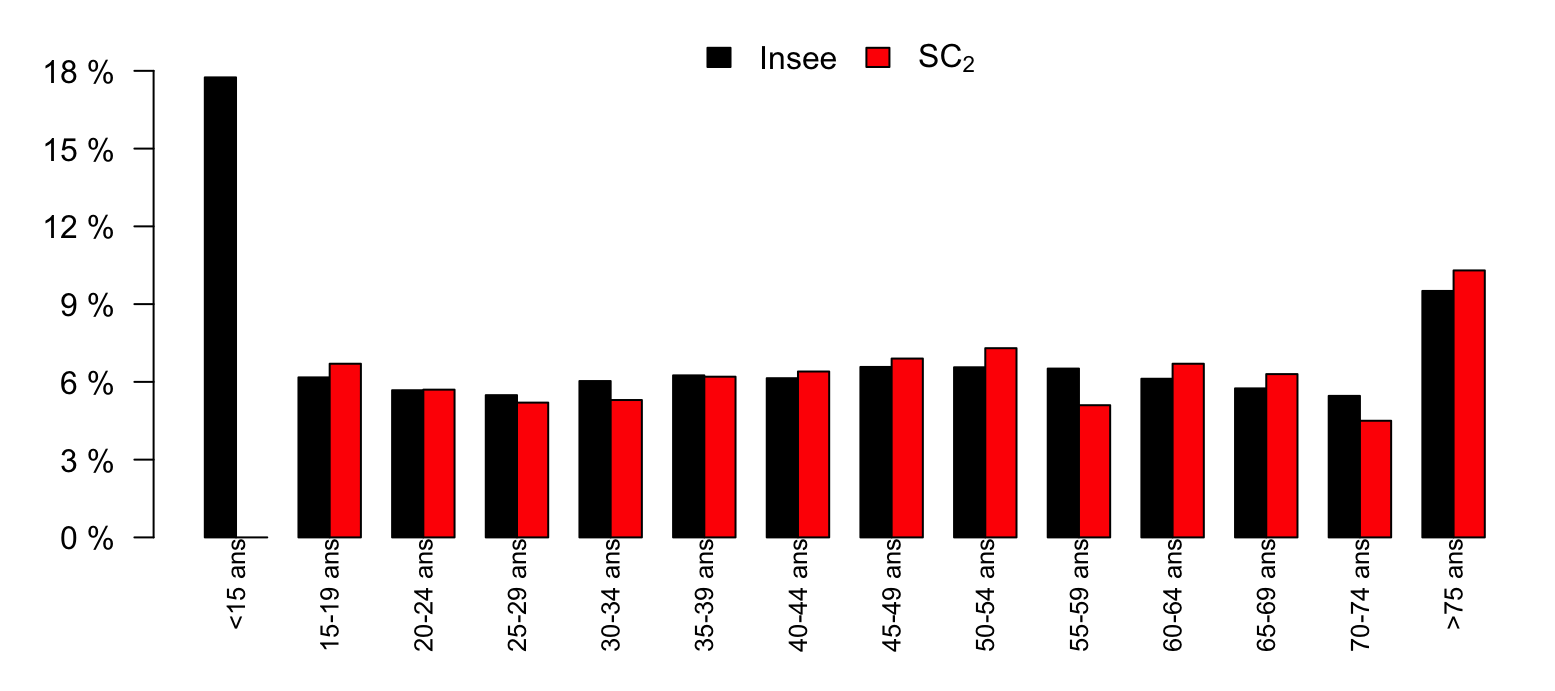
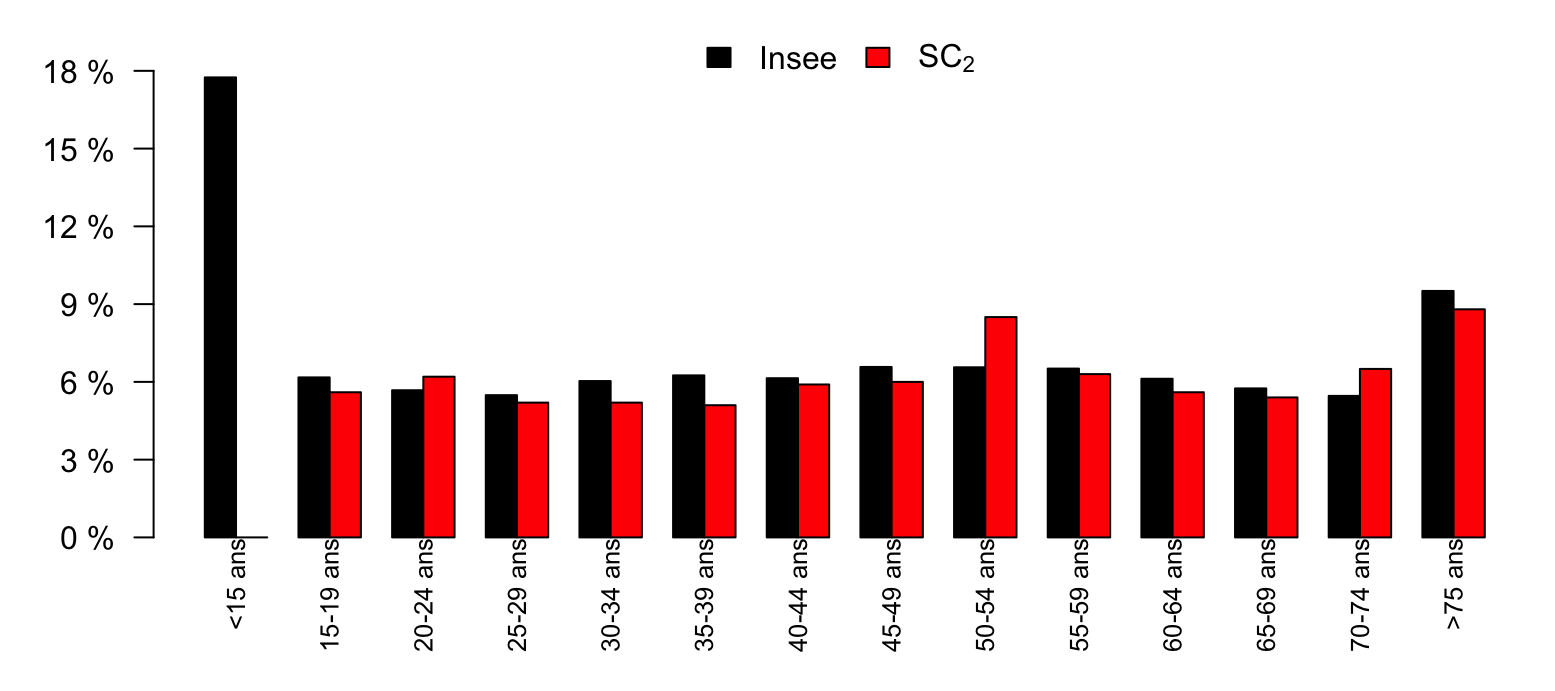
cours

diff --git a/static/uploads/M2_DS/M2_stats_de_la_SD_2024.html b/static/uploads/M2_DS/M2_stats_de_la_SD_2024.html
@@ -877,9 +877,9 @@ y = x + \epsilon
 <p>On répète un nombre <span class="math inline">\(M=\)</span> 20 d’imputations du jeu de données intitiales. En voici 3 versions.</p>
 
 <img data-src="M2_stats_de_la_SD_2024_files/figure-revealjs/unnamed-chunk-20-1.png" class="quarto-figure quarto-figure-center r-stretch" width="518"><p>La moyenne empirique des <span class="math inline">\(M=\)</span> 20 estimations pour chacun des 3 coefficients: <span class="math display">\[
-\hat{\alpha}_N\approx -0.022\pm 0.05, \
-\hat{\beta}_N\approx 0.758\pm 0.045,\
-\hat{\sigma}^2_N\approx 0.192
+\hat{\alpha}_N\approx 0.063\pm 0.042, \
+\hat{\beta}_N\approx 1.017\pm 0.043,\
+\hat{\sigma}^2_N\approx 0.135
 \]</span></p>
 </section>
 <section id="le-boxplot-toujours-aussi-utile" class="slide level2">
@@ -949,27 +949,27 @@ y = x + \epsilon
 <p>On obtient des estimations :</p>
 <ul>
 <li><p>Via bootstrap : <span class="math display">\[
-\hat{\alpha}_\text{Boot}\approx -0.044\pm 0.054, \
-\hat{\beta}_\text{Boot}\approx 0.787\pm 0.05, \
-\hat{\sigma}^2_\text{Boot}\approx 0.227
+\hat{\alpha}_\text{Boot}\approx 0.056\pm 0.047, \
+\hat{\beta}_\text{Boot}\approx 1.021\pm 0.047, \
+\hat{\sigma}^2_\text{Boot}\approx 0.17
 \]</span></p></li>
 <li><p>Via la postérieure/bayésienne : <span class="math display">\[
-\hat{\alpha}_\text{Bayes}\approx 0.001\pm 0.009, \
-\hat{\beta}_\text{Bayes}\approx 0.965\pm 0.012,\
-\hat{\sigma}^2_\text{Bayes}\approx 0.265
+\hat{\alpha}_\text{Bayes}\approx 0\pm 0.01, \
+\hat{\beta}_\text{Bayes}\approx 0.963\pm 0.013,\
+\hat{\sigma}^2_\text{Bayes}\approx 0.198
 \]</span></p></li>
 </ul>
 <p>Pour rappel, dans les cas impropres : <span class="math display">\[
 \begin{array}{lccc}
-\text{Moyenne}&amp;\hat{\alpha}_0\approx 0.055\pm 0.067 &amp;
-\hat{\beta}_0\approx 0.368\pm 0.06 &amp;
-\hat{\sigma}^2_0\approx 0.353\\
-\text{Régression linéaire}&amp;\hat{\alpha}_l\approx -0.023\pm 0.047 &amp;
-\hat{\beta}_l\approx 0.756\pm 0.042 &amp;
-\hat{\sigma}^2_l\approx 0.171\\
-\text{Régression stochastique}&amp;\hat{\alpha}_N\approx -0.022\pm 0.05 &amp;
-\hat{\beta}_N\approx 0.758\pm 0.045 &amp;
-\hat{\sigma}^2_N\approx 0.192
+\text{Moyenne}&amp;\hat{\alpha}_0\approx 0.171\pm 0.066 &amp;
+\hat{\beta}_0\approx 0.684\pm 0.068 &amp;
+\hat{\sigma}^2_0\approx 0.344\\
+\text{Régression linéaire}&amp;\hat{\alpha}_l\approx 0.064\pm 0.039 &amp;
+\hat{\beta}_l\approx 1.022\pm 0.041 &amp;
+\hat{\sigma}^2_l\approx 0.123\\
+\text{Régression stochastique}&amp;\hat{\alpha}_N\approx 0.063\pm 0.042 &amp;
+\hat{\beta}_N\approx 1.017\pm 0.043 &amp;
+\hat{\sigma}^2_N\approx 0.135
 \end{array}
 \]</span> </p>
 </section>
@@ -1020,7 +1020,7 @@ y = x + \epsilon
 <p>Soit une fonction de densité paramétrique <span class="math inline">\(p(x|\theta)\)</span> qui dépend du paramètre <span class="math inline">\(\theta\in\Theta\)</span>, <span class="math inline">\(\Theta\)</span> potentiellement multi-dimensionnel.</p>
 <p>Dans le cas d’un échantillon de <span class="math inline">\(n\)</span> observations indépendantes <span class="math inline">\(X=(x_1,\dots,x_n)\)</span> la vraisemblance s’écrit : <span class="math display">\[
 \mathcal{L}(\theta|X) = \prod_{i=1}^np(x_i|\theta).
-\]</span> Plus cette valeur est importante et plus le modèle <span class="math inline">\(\theta\)</span> est vraisemblable suivant les données <span class="math inline">\(X\)</span>. La contrainte de cette fonction est qu’elle doit sommer à 1.</p>
+\]</span> Plus cette valeur est importante et plus le modèle <span class="math inline">\(\theta\)</span> est vraisemblable suivant les données <span class="math inline">\(X\)</span>.</p>
 </section>
 <section id="maximization-de-vraisemblance-2" class="slide level2">
 <h2>Maximization de vraisemblance (2)</h2>
@@ -1072,7 +1072,7 @@ y = x + \epsilon
 </section>
 <section id="naissance-de-lalgorithme-em-1" class="slide level2">
 <h2>Naissance de l’algorithme <strong>EM</strong> (1)</h2>
-<p>Soit <span class="math inline">\(X\in\mathcal{X}\)</span> les données manquantes et <span class="math inline">\(Z\in\mathcal{Z}\)</span> les données présentes, alors la fonction de densité jointe de <span class="math inline">\((X,Z)\)</span> peut s’écrire <span class="math display">\[
+<p>Soit <span class="math inline">\(X\in\mathcal{X}\)</span> les données observées et <span class="math inline">\(Z\in\mathcal{Z}\)</span> les données manquantes, alors la fonction de densité jointe de <span class="math inline">\((X,Z)\)</span> peut s’écrire <span class="math display">\[
 p\left(X,Z|\theta\right)=p\left(X|Z,\theta\right)p\left(Z|\theta\right).
 \]</span> Ainsi, par intégration sur <span class="math inline">\(\mathcal{Z}\)</span> l’ensemble formé par les évènements possibles pour les données manquantes il vient <span class="math display">\[
 p\left(X|\theta\right) = \int_{z\in \mathcal{Z}}p\left(X,z|\theta\right)dz=\int_{z\in \mathcal{Z}} p\left(X|z,\theta\right)p\left(z|\theta\right)dz
@@ -1209,15 +1209,15 @@ Q\left(\theta|\theta_0,X\right) &amp;=&amp;  \mathbb{E}_{\theta_0}\left[\ln{p\le
 </div>
 </div>
 </section>
-<section id="un-petit-exemple-1" class="slide level2">
-<h2>Un petit exemple (1)</h2>
+<section id="capteur-de-température-saturé-1" class="slide level2">
+<h2>Capteur de température saturé (1)</h2>
 <p>On accède aux données d’un capteur de température qui sature à partir d’une température <span class="math inline">\(a\)</span>. On sait que la température suit une loi normale de moyenne <span class="math inline">\(\theta\)</span> et de variance <span class="math inline">\(1\)</span>. Parmi les <span class="math inline">\(n=n_1+n_2\)</span> données, les <span class="math inline">\(n_1\)</span> premières ne sont pas saturées (<span class="math inline">\(x_i&lt;a\)</span>) alors que les <span class="math inline">\(n_2\)</span> suivantes sont saturées (<span class="math inline">\(x_i\geq a\)</span>). On cherche tout de même à estimer <span class="math inline">\(\theta\)</span>, la vraie valeur de la température.</p>
 <p>Dans ce cas, la vraisemblance du problème s’écrit <span class="math display">\[
 \mathcal{L}(\theta|X) = \left(1-\Phi(a-\theta)\right)^{n_2}\prod_{i=1}^{n_1}\varphi(x_i-\theta),
 \]</span> où <span class="math inline">\(\varphi\)</span> et <span class="math inline">\(\Phi\)</span> sont les fonctions de densité et de répartition de la loi normale centrée réduite.</p>
 </section>
-<section id="un-petit-exemple-2" class="slide level2">
-<h2>Un petit exemple (2)</h2>
+<section id="capteur-de-température-saturé-2" class="slide level2">
+<h2>Capteur de température saturé (2)</h2>
 <p>On introduit des variables latentes <span class="math inline">\(z_i\)</span> et on écrit alors la vraisemblance complétée <span class="math display">\[
 \mathcal{L}_c(\theta|X,Z) = \prod_{i=1}^{n_1}\varphi(x_i-\theta)\prod_{i=1}^{n_2}\varphi(z_i-\theta),
 \]</span> qui est cette fois simple à régler puisque les <span class="math inline">\(z_i\)</span> sont observés.</p>
@@ -1225,8 +1225,8 @@ Q\left(\theta|\theta_0,X\right) &amp;=&amp;  \mathbb{E}_{\theta_0}\left[\ln{p\le
 </p>
 <p>C’est l’étape de maximization qui permet de trouver le paramètre <span class="math inline">\(\theta\)</span> optimal.</p>
 </section>
-<section id="un-petit-exemple-3" class="slide level2">
-<h2>Un petit exemple (3)</h2>
+<section id="capteur-de-température-saturé-3" class="slide level2">
+<h2>Capteur de température saturé (3)</h2>
 <p><br>
 </p>
 <p>On peut aisemment détailler la vraisemblance complétée <span class="math inline">\(\ell_c(\theta|X,Z)\)</span> :</p>
@@ -1240,8 +1240,8 @@ Q\left(\theta|\theta_0,X\right) &amp;=&amp;  \mathbb{E}_{\theta_0}\left[\ln{p\le
 Q(\theta|\theta_k,X) = \mathbb{E}_{\theta_k}\left[\ell_c(\theta|X,Z)\right] = -\frac{1}{2}\sum_{i=1}^{n_1} (x_i-\theta)^2 -\frac{1}{2} \sum_{i=1}^{n_2}\mathbb{E}_{\theta_k}[(Z_i-\theta)^2] + cste.
 \]</span></p>
 </section>
-<section id="un-petit-exemple-4" class="slide level2">
-<h2>Un petit exemple (4)</h2>
+<section id="capteur-de-température-saturé-4" class="slide level2">
+<h2>Capteur de température saturé (4)</h2>
 <p><br>
 </p>
 <p>La fonctionelle <span class="math inline">\(Q(\theta|\theta_k,X)\)</span> est alors maximale en <span class="math display">\[
@@ -1253,33 +1253,82 @@ Q(\theta|\theta_k,X) = \mathbb{E}_{\theta_k}\left[\ell_c(\theta|X,Z)\right] = -\
 &lt;\!\!z_i\!\!&gt;_k=\mathbb{E}_{\theta_k}[Z_i]=\dfrac{\int_{a}^{\infty}z\varphi(z-\theta_k)dz}{1-\Phi(a-\theta_k)} = \theta_k + \dfrac{\varphi(a-\theta_k)}{1-\Phi(a-\theta_k)}.
 \]</span></p>
 </section>
-<section id="un-petit-exemple-5" class="slide level2">
-<h2>Un petit exemple (5)</h2>
-<p><br>
-</p>
+<section id="capteur-de-température-saturé-5" class="slide level2">
+<h2>Capteur de température saturé (5)</h2>
 <p>L’algorithme <strong>EM</strong> recherché réalise donc les deux étapes suivantes, après initialisation de <span class="math inline">\(\theta\)</span> via <span class="math inline">\(\theta_0\)</span>, et pour toute itération <span class="math inline">\(k&gt;0\)</span> :</p>
 <ul>
 <li><strong>Espérance</strong> : Calcul de <span class="math inline">\(Q(\theta|\theta_k,X)\)</span>, celà revient ici à calculer:</li>
 </ul>
 <p><span class="math display">\[\forall i\in\{1,\dots,n_2\},\quad &lt;\!\!z_i\!\!&gt;_k = \theta_k + \dfrac{\varphi(a-\theta_k)}{1-\Phi(a-\theta_k)}=&lt;\!\!z_1\!\!&gt;_k.\]</span></p>
-<p><br>
-</p>
 <ul>
 <li><strong>Maximisation</strong> : on calcule <span class="math inline">\(\theta_{k+1} = \dfrac{\sum_{i=1}^{n_1}x_i+n_2&lt;\!\!z_1\!\!&gt;_k}{n}\)</span>.</li>
 </ul>
+<div class="callout callout-note callout-titled callout-style-default">
+<div class="callout-body">
+<div class="callout-title">
+<div class="callout-icon-container">
+<i class="callout-icon"></i>
+</div>
+<p><strong>Note</strong></p>
+</div>
+<div class="callout-content">
+<p>L’espérance conditionelle <span class="math inline">\(\mathbb{E}_{\theta_k}[Z_i]\)</span> est indépendante de l’individu considéré on arrive à la conclusion que l’hypothèse <strong>MNAR</strong>, non discutée précédemment, est bien vérifiée.</p>
+</div>
+</div>
+</div>
 </section>
-<section id="un-petit-exemple-6" class="slide level2">
-<h2>Un petit exemple (6)</h2>
-<p>Application numérique avec <span class="math inline">\(\theta=30\)</span>, <span class="math inline">\(n_1=400\)</span>, <span class="math inline">\(n_2=250\)</span> et <span class="math inline">\(a=30.27\)</span> :</p>
+<section id="capteur-de-température-saturé-6" class="slide level2">
+<h2>Capteur de température saturé (6)</h2>
+<div class="callout callout-note callout-titled callout-style-default">
+<div class="callout-body">
+<div class="callout-title">
+<div class="callout-icon-container">
+<i class="callout-icon"></i>
+</div>
+<p><strong>Qui de l’imputation ?</strong></p>
+</div>
+<div class="callout-content">
+<p>Dans cet exemple, l’estimateur du maximum de vraissemblance, noté <span class="math inline">\(\hat{\theta}_{ML}\)</span>, est la limite de la suite</p>
+<p><span class="math display">\[
+\hat{\theta}_{ML} = \lim_{k\ \to \ \infty}\dfrac{\sum_{i=1}^{n_1}x_i+n_2&lt;\!\!z_1\!\!&gt;_k}{n}.
+\]</span> Sous le modèle choisi, tel que <span class="math inline">\(\theta=\hat{\theta}_{ML}\)</span>, la <strong>meilleure</strong> valeur imputée pour chaque <span class="math inline">\(z_i\)</span> (comprendre <strong>la plus vraisemblable</strong>) est</p>
+<p><span class="math display">\[\forall i\in\{1,\dots,n_2\},\quad &lt;\!\!z_i\!\!&gt;_{ML} = \hat{\theta}_{ML} + \dfrac{\varphi(a-\hat{\theta}_{ML})}{1-\Phi(a-\hat{\theta}_{ML})}.\]</span></p>
+</div>
+</div>
+</div>
+</section>
+<section id="capteur-de-température-saturé-7" class="slide level2">
+<h2>Capteur de température saturé (7)</h2>
+<p>Application numérique avec <span class="math inline">\(\theta=30\)</span>, <span class="math inline">\(n_1=400\)</span>, <span class="math inline">\(n_2=250\)</span> et <span class="math inline">\(a=30.33\)</span> :</p>
 
 <img data-src="M2_stats_de_la_SD_2024_files/figure-revealjs/unnamed-chunk-27-1.png" class="quarto-figure quarto-figure-center r-stretch" width="544"></section>
+<section id="capteur-de-température-saturé-8" class="slide level2">
+<h2>Capteur de température saturé (8)</h2>
+<div class="callout callout-important callout-titled callout-style-default">
+<div class="callout-body">
+<div class="callout-title">
+<div class="callout-icon-container">
+<i class="callout-icon"></i>
+</div>
+<p><strong>Important</strong></p>
+</div>
+<div class="callout-content">
+<p>On voit deux choses importantes :</p>
+<ul>
+<li>L’estimation du paramètre <span class="math inline">\(\theta\)</span> sur les données seulement observées (29.44) est plus mauvaise que l’estimation sur les données observées et sur l’information de saturation (<span class="math inline">\(\hat{\theta}_{ML}=30.05\)</span>).</li>
+<li>L’imputation par la valeur la plus vraissemblable, <span class="math inline">\(&lt;z_i&gt;_{ML}\)</span>, est <em>mauvaise</em>. Ceci est principalement dû au fait que le processus est <strong>MNAR</strong> : l’imputation ne peut pas particulariser sur l’individu considéré.</li>
+</ul>
+</div>
+</div>
+</div>
+</section>
 <section id="algorithme-em-retour-à-notre-exemple" class="slide level2">
 <h2>Algorithme <strong>EM</strong>, retour à notre exemple</h2>
 
 <img data-src="M2_stats_de_la_SD_2024_files/figure-revealjs/emResult-1.png" class="quarto-figure quarto-figure-center r-stretch" width="388"><p>Les valeurs estimées sont alors <span class="math display">\[
-\hat{\alpha}_\text{EM}\approx -0.038\pm 0.047, \
-\hat{\beta}_\text{EM}\approx 0.923\pm 0.046,\
-\hat{\sigma}^2_\text{EM}\approx 0.186
+\hat{\alpha}_\text{EM}\approx 0.032\pm 0.047, \
+\hat{\beta}_\text{EM}\approx 1.12\pm 0.045,\
+\hat{\sigma}^2_\text{EM}\approx 0.193
 \]</span></p>
 </section></section>
 <section>
@@ -1351,9 +1400,9 @@ Z_{k,t}&amp;\sim p(Z|X,\theta_k),\\
 </div>
 </div>
 </section>
-<section id="exemple-des-cellules-1-voir-dempster77" class="slide level2">
-<h2>Exemple des cellules (1), voir <span class="citation" data-cites="dempster77">Dempster, Laird, and Rubin (<a href="#/références" role="doc-biblioref" onclick="">1977</a>)</span></h2>
-<p>Soit un échantillon biologique peuplé de 4 types cellulaires différents, <span class="math inline">\(X=(x_1,x_2,x_3,x_4)\)</span>, le nombre de chaque type cellulaire dans l’échantillon biologique. On considère le modèle multinomiale suivant :</p>
+<section id="exemple-des-cellules-1" class="slide level2">
+<h2>Exemple des cellules (1)</h2>
+<p>Voir <span class="citation" data-cites="dempster77">Dempster, Laird, and Rubin (<a href="#/références" role="doc-biblioref" onclick="">1977</a>)</span>. Soit un échantillon biologique peuplé de 4 types cellulaires différents, <span class="math inline">\(X=(x_1,x_2,x_3,x_4)\)</span>, le nombre de chaque type cellulaire dans l’échantillon biologique. On considère le modèle multinomiale suivant :</p>
 <p><span class="math display">\[
 (x_1,x_2,x_3,x_4) ~\sim ~\mathcal{M}\left(n;\dfrac{2+\theta}{4},\dfrac{1-\theta}{4},\dfrac{1-\theta}{4},\dfrac{\theta}{4},\right),
 \]</span> et le paramètre inconnu est <span class="math inline">\(\theta\in[0,1]\)</span>. La vraisemblance de l’échantillon, de taille 1, s’écrit <span class="math display">\[
@@ -1384,7 +1433,7 @@ Q(\theta|\theta_k,X) = (x_2+x_3)\log(1-\theta) + (&lt;\!\!z_2\!\!&gt;_k+x_4)\log
 <section id="exemple-des-cellules-4" class="slide level2">
 <h2>Exemple des cellules (4)</h2>
 <p><span class="math display">\[
-(x_1,x_2,x_3,x_4) = (110,30,35,20)\quad \text{et} \quad \theta=0.3
+(x_1,x_2,x_3,x_4) = (120,35,35,10)\quad \text{et} \quad \theta=0.3
 \]</span></p>
 <p><br>
 </p>
@@ -1560,29 +1609,29 @@ Dans cette section nous allons discuter des méthodes d'échantillonnage qui per
 <section id="au-total-1" class="slide level2">
 <h2>Au total</h2>
 <p><span class="math display">\[
-\hat{\alpha}_\text{EM}\approx -0.038\pm 0.047, \
-\hat{\beta}_\text{EM}\approx 0.923\pm 0.046,\
-\hat{\sigma}^2_\text{EM}\approx 0.186
+\hat{\alpha}_\text{EM}\approx 0.032\pm 0.047, \
+\hat{\beta}_\text{EM}\approx 1.12\pm 0.045,\
+\hat{\sigma}^2_\text{EM}\approx 0.193
 \]</span> <span class="math display">\[
-\hat{\alpha}_\text{Boot}\approx -0.044\pm 0.054, \
-\hat{\beta}_\text{Boot}\approx 0.787\pm 0.05, \
-\hat{\sigma}^2_\text{Boot}\approx 0.227
+\hat{\alpha}_\text{Boot}\approx 0.056\pm 0.047, \
+\hat{\beta}_\text{Boot}\approx 1.021\pm 0.047, \
+\hat{\sigma}^2_\text{Boot}\approx 0.17
 \]</span> <span class="math display">\[
-\hat{\alpha}_\text{Bayes}\approx 0.001\pm 0.009, \
-\hat{\beta}_\text{Bayes}\approx 0.965\pm 0.012,\
-\hat{\sigma}^2_\text{Bayes}\approx 0.265
+\hat{\alpha}_\text{Bayes}\approx 0\pm 0.01, \
+\hat{\beta}_\text{Bayes}\approx 0.963\pm 0.013,\
+\hat{\sigma}^2_\text{Bayes}\approx 0.198
 \]</span> <span class="math display">\[
-\hat{\alpha}_\text{0}\approx 0.055\pm 0.067, \
-\hat{\beta}_\text{0}\approx 0.368\pm 0.06, \
-\hat{\sigma}^2_\text{0}\approx 0.353
+\hat{\alpha}_\text{0}\approx 0.171\pm 0.066, \
+\hat{\beta}_\text{0}\approx 0.684\pm 0.068, \
+\hat{\sigma}^2_\text{0}\approx 0.344
 \]</span> <span class="math display">\[
-\hat{\alpha}_l\approx -0.023\pm 0.047, \
-\hat{\beta}_l\approx 0.756\pm 0.042, \
-\hat{\sigma}^2_l\approx 0.171
+\hat{\alpha}_l\approx 0.064\pm 0.039, \
+\hat{\beta}_l\approx 1.022\pm 0.041, \
+\hat{\sigma}^2_l\approx 0.123
 \]</span> <span class="math display">\[
-\hat{\alpha}_\text{N}\approx -0.022\pm 0.05, \
-\hat{\beta}_\text{N}\approx 0.758\pm 0.045, \
-\hat{\sigma}^2_\text{N}\approx 0.192
+\hat{\alpha}_\text{N}\approx 0.063\pm 0.042, \
+\hat{\beta}_\text{N}\approx 1.017\pm 0.043, \
+\hat{\sigma}^2_\text{N}\approx 0.135
 \]</span></p>
 <!--## Une petite ACP ? Les individus
 
@@ -1697,7 +1746,7 @@ On trace les ellipses de confiance à 95\%
 <li><code>norm.predict</code> : imputation sans alea,</li>
 <li><code>norm.nob</code> : imputation stochastique,</li>
 <li><code>norm</code> : imputation stochastique et postérieure/bayésienne,</li>
-<li><code>norm.boot</code> : Estimtation des paramètres sut un échantillon bootstrap des données observées.</li>
+<li><code>norm.boot</code> : Estimtation des paramètres sur un échantillon bootstrap des données observées.</li>
 </ul>
 </section>
 <section id="mice-2" class="slide level2">
